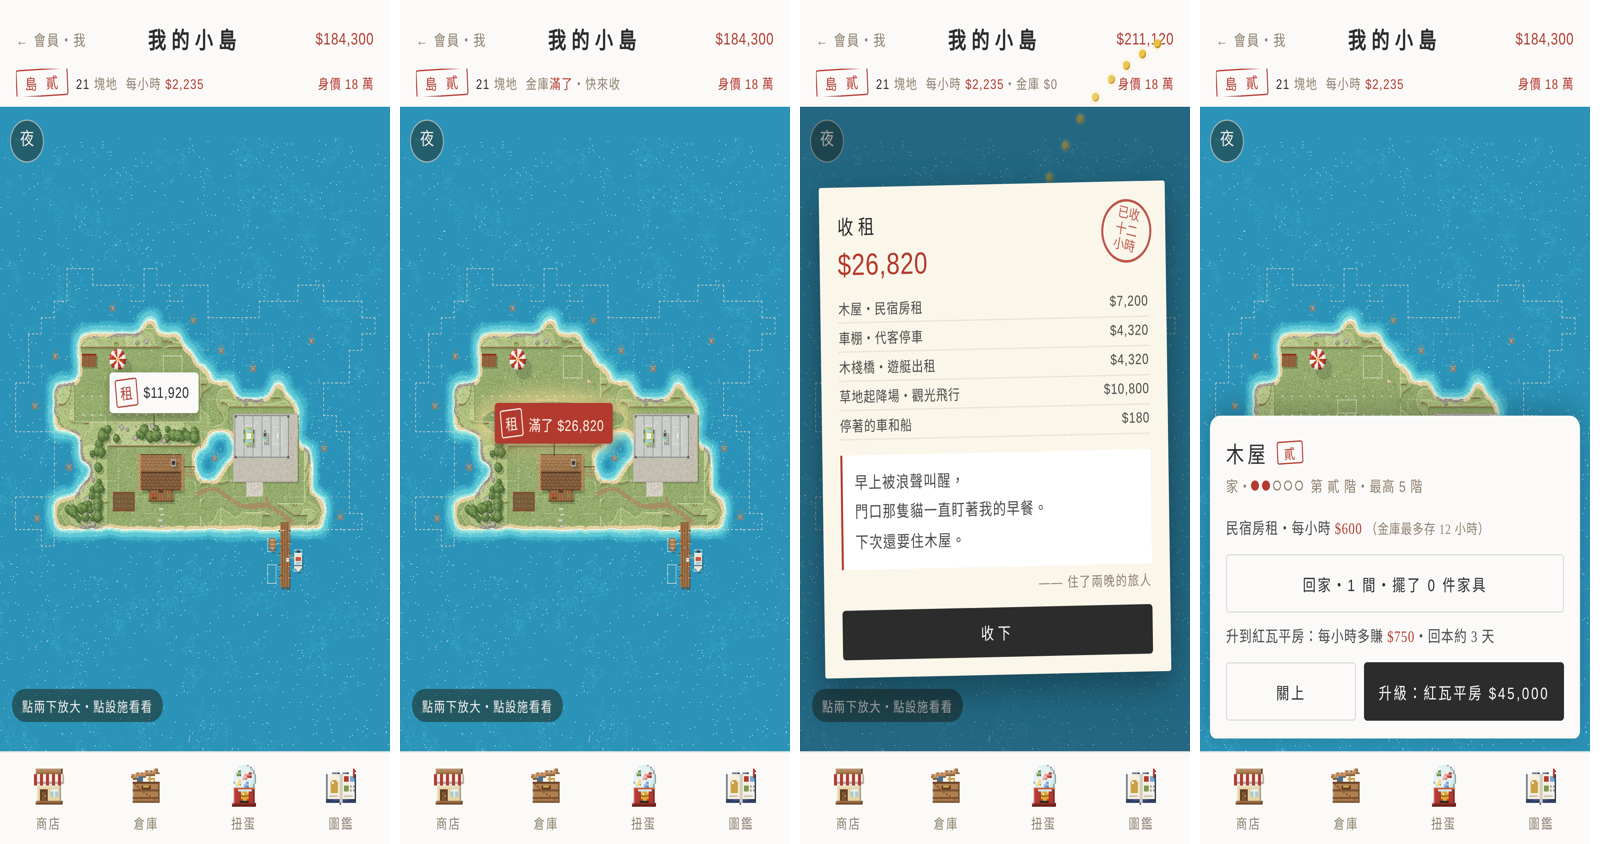
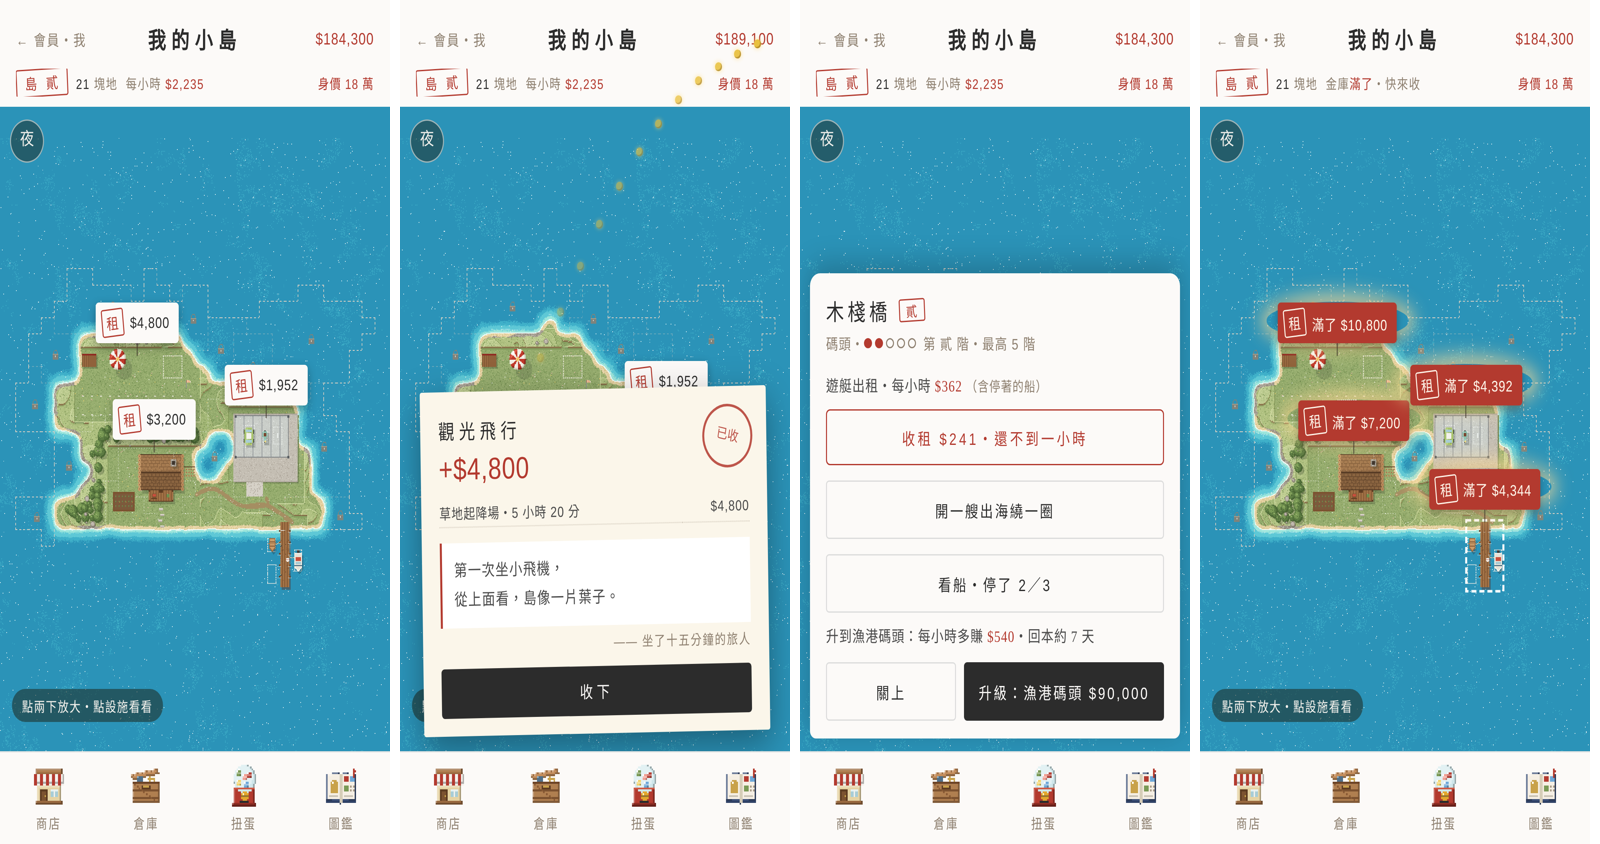
docs: rent UI per facility
Claude-Session: https://claude.ai/code/session_01DfELKGAuUeHGLNNJha5AAX

diff --git a/docs/plans/jiayuan/rent-ui.js b/docs/plans/jiayuan/rent-ui.js
@@ -17,11 +17,11 @@ const OUT = '/home/claude/work/';
     return { lv: R.FAC_KEYS.map(k => k + R.level(s, k)), plots: R.island(s).plots.length, log }; });
   console.log(JSON.stringify(info));
   await p.reload(); await p.waitForTimeout(2500);
-  await p.addStyleTag({ content: `
+  const CSS = `
     #trial { display: none !important; }
     .rtag { position: absolute; transform: translate(-50%, -100%); display: flex; flex-direction: column; align-items: center; pointer-events: none; animation: rb 2.2s ease-in-out infinite; z-index: 5; }
     .rtag .str { width: 1px; height: 10px; background: rgba(60,50,40,.7); order: 2; }
-    .rtag .pp { order: 1; display: flex; align-items: center; gap: 6px; background: #fcfaf8; color: #2c2c2c; padding: 5px 9px 5px 6px; border-radius: 3px; box-shadow: 0 3px 8px rgba(0,0,0,.3); font-family: 'Noto Sans TC', sans-serif; font-size: 12px; letter-spacing: .04em; }
+    .rtag .pp { order: 1; white-space: nowrap; display: flex; align-items: center; gap: 6px; background: #fcfaf8; color: #2c2c2c; padding: 5px 9px 5px 6px; border-radius: 3px; box-shadow: 0 3px 8px rgba(0,0,0,.3); font-family: 'Noto Sans TC', sans-serif; font-size: 12px; letter-spacing: .04em; }
     .rtag .sl { width: 20px; height: 20px; border: 1.5px solid #b33a2f; color: #b33a2f; display: flex; align-items: center; justify-content: center; font-family: 'Noto Serif TC', serif; font-size: 12px; transform: rotate(-6deg); border-radius: 2px; }
     .rtag.full .pp { background: #b33a2f; color: #fff6ea; } .rtag.full .sl { border-color: #fff6ea; color: #fff6ea; }
     .rtag.full::after { content: ''; position: absolute; left: 50%; top: 14px; width: 120%; height: 70%; transform: translate(-50%, -50%); border-radius: 50%; box-shadow: 0 0 16px 6px rgba(255,220,150,.75); z-index: -1; }
@@ -42,46 +42,49 @@ const OUT = '/home/claude/work/';
     .dim { position: absolute; inset: 0; background: rgba(20,24,30,.35); z-index: 7; }
     .rline { font-size: 12.5px; color: rgb(var(--wabi-text)); margin: 8px 0 0; letter-spacing: .05em; }
     .rline b { color: rgb(var(--wabi-shu)); font-weight: 500; }
-  ` });
-  const place = async (amt, full) => p.evaluate(([amt, full]) => {
+  `; await p.addStyleTag({ content: CSS });
+  // 每個設施各一張紙牌（存到一小時以上才吊）
+  const tags = async (list) => p.evaluate(list => {
     document.querySelectorAll('.rtag').forEach(e => e.remove());
-    const R = XiaodaoRules, S = JSON.parse(localStorage.getItem('dongbuli-xiaodao-preview')).s, r = R.rect('house', R.level(S, 'house')), c = __xiaodao.cam;
-    const t = document.createElement('div'); t.className = 'rtag' + (full ? ' full' : ''); t.innerHTML = `<span class="pp"><span class="sl">租</span>${amt}</span><span class="str"></span>`;
-    t.style.left = ((r.x + r.w / 2 - c.x) * c.s) + 'px'; t.style.top = ((r.y + 6 - c.y) * c.s) + 'px'; document.getElementById('view').appendChild(t);
-    let sub = document.getElementById('rsub'); if (!sub) { sub = document.createElement('span'); sub.id = 'rsub'; sub.className = 'rsub'; document.getElementById('nextTier').replaceWith(sub); }
-    sub.innerHTML = full ? '金庫<b>滿了</b>・快來收' : '每小時 <b>$2,235</b>';
-  }, [amt, full]);
+    const R = XiaodaoRules, S = JSON.parse(localStorage.getItem('dongbuli-xiaodao-preview')).s, c = __xiaodao.cam;
+    list.forEach(([k, amt, full]) => { const r = R.rect(k, R.level(S, k)), t = document.createElement('div'); t.className = 'rtag' + (full ? ' full' : ''); t.innerHTML = `<span class="pp"><span class="sl">租</span>${amt}</span><span class="str"></span>`;
+      t.style.left = ((r.x + r.w / 2 - c.x) * c.s) + 'px'; t.style.top = ((r.y + 6 - c.y) * c.s) + 'px'; t.style.animationDelay = (-Math.random() * 2) + 's'; document.getElementById('view').appendChild(t); });
+  }, list);
+  const sub = async html => p.evaluate(html => { let e = document.getElementById('rsub'); if (!e) { e = document.createElement('span'); e.id = 'rsub'; e.className = 'rsub'; document.getElementById('nextTier').replaceWith(e); } e.innerHTML = html; }, html);
   const shot = async n => { await p.waitForTimeout(250); await p.screenshot({ path: OUT + 'rent' + n + '.png' }); };
-  // 1 累積中
-  await place('$11,920', false); await shot(1);
-  // 2 滿了
-  await place('滿了 $26,820', true); await shot(2);
-  // 3 收租：錢飛進錢包＋旅客紙條
+  // 1 存錢中：家、車棚、起降場存了 5 小時多 → 吊紙牌；碼頭 40 分鐘前才收過 → 不吊
+  await tags([['house', '$3,200'], ['garage', '$1,952'], ['airfield', '$4,800']]); await sub('每小時 <b>$2,235</b>'); await shot(1);
+  // 2 點起降場的紙牌：金幣飛進錢包＋旅客紙條（只有這一個設施的）
+  await tags([['house', '$3,200'], ['garage', '$1,952']]);
   await p.evaluate(() => {
-    document.querySelectorAll('.rtag').forEach(e => e.remove());
     const app = document.getElementById('app'), ab = app.getBoundingClientRect(), t = document.getElementById('view').getBoundingClientRect(), mb = document.getElementById('money').getBoundingClientRect();
-    const R = XiaodaoRules, S = JSON.parse(localStorage.getItem('dongbuli-xiaodao-preview')).s, r = R.rect('house', R.level(S, 'house')), c = __xiaodao.cam;
+    const R = XiaodaoRules, S = JSON.parse(localStorage.getItem('dongbuli-xiaodao-preview')).s, r = R.rect('airfield', R.level(S, 'airfield')), c = __xiaodao.cam;
     const x0 = t.left - ab.left + (r.x + r.w / 2 - c.x) * c.s, y0 = t.top - ab.top + (r.y - c.y) * c.s, x1 = mb.right - ab.left - 20, y1 = mb.top - ab.top + 8;
-    for (let i = 0; i < 14; i++) { const u = i / 13, cx = x0 + (x1 - x0) * u, cy = y0 + (y1 - y0) * u - Math.sin(u * Math.PI) * 70; const d = document.createElement('i'); d.className = 'coin'; d.style.left = cx + 'px'; d.style.top = cy + 'px'; d.style.opacity = .35 + u * .65; app.appendChild(d); }
-    const pl = document.createElement('div'); pl.className = 'plus'; pl.textContent = '+$26,820'; pl.style.left = x0 + 'px'; pl.style.top = (y0 - 4) + 'px'; pl.style.textShadow = '0 0 3px #fff, 0 0 6px #fff'; /* 被紙條蓋住，不放 */ void pl; document.getElementById('rsub').innerHTML = '每小時 <b>$2,235</b>・金庫 $0';
-    document.getElementById('money').textContent = '$211,120';
-    const dim = document.createElement('div'); dim.className = 'dim'; document.getElementById('view').appendChild(dim);
-    const n = document.createElement('div'); n.className = 'rnote'; n.innerHTML = `<span class="stamp">已收<br>十二<br>小時</span><h3>收租</h3><div class="amt">$26,820</div>
-      <table><tr><td>木屋・民宿房租</td><td>$7,200</td></tr><tr><td>車棚・代客停車</td><td>$4,320</td></tr><tr><td>木棧橋・遊艇出租</td><td>$4,320</td></tr><tr><td>草地起降場・觀光飛行</td><td>$10,800</td></tr><tr><td>停著的車和船</td><td>$180</td></tr></table>
-      <div class="msg">早上被浪聲叫醒，<br>門口那隻貓一直盯著我的早餐。<br>下次還要住木屋。</div><div class="who">—— 住了兩晚的旅人</div><div class="ok">收下</div>`;
+    for (let i = 0; i < 12; i++) { const u = i / 11, cx = x0 + (x1 - x0) * u, cy = y0 + (y1 - y0) * u - Math.sin(u * Math.PI) * 50; const d = document.createElement('i'); d.className = 'coin'; d.style.left = cx + 'px'; d.style.top = cy + 'px'; d.style.opacity = .35 + u * .65; app.appendChild(d); }
+    document.getElementById('money').textContent = '$189,100';
+    const n = document.createElement('div'); n.className = 'rnote'; n.style.top = 'auto'; n.style.bottom = '14px'; n.style.transform = 'rotate(-1deg)';
+    n.innerHTML = `<span class="stamp">已收</span><h3>觀光飛行</h3><div class="amt">+$4,800</div>
+      <table><tr><td>草地起降場・5 小時 20 分</td><td>$4,800</td></tr></table>
+      <div class="msg">第一次坐小飛機，<br>從上面看，島像一片葉子。</div><div class="who">—— 坐了十五分鐘的旅人</div><div class="ok">收下</div>`;
     document.getElementById('view').appendChild(n);
   });
-  await shot(3);
-  // 4 設施卡片：租金、升級多賺、回本
+  await shot(2);
+  // 3 碼頭不到一小時：沒有紙牌，點開卡片才收得到
   await p.reload(); await p.waitForTimeout(2200);
-  await p.addStyleTag({ content: '#trial{display:none!important} .rline{font-size:12.5px;margin:8px 0 0;letter-spacing:.05em} .rline b{color:rgb(var(--wabi-shu));font-weight:500} .rline small{color:rgb(var(--wabi-accent));font-size:11px}' });
-  await p.evaluate(() => { const R = XiaodaoRules, S = JSON.parse(localStorage.getItem('dongbuli-xiaodao-preview')).s, r = R.rect('house', R.level(S, 'house')); __xiaodao.tap(r.x + r.w / 2, r.y + r.h / 2); });
+  await p.addStyleTag({ content: '#trial{display:none!important} .rline{font-size:12.5px;margin:8px 0 0;letter-spacing:.05em} .rline b{color:rgb(var(--wabi-shu));font-weight:500} .rline small{color:rgb(var(--wabi-accent));font-size:11px} .rbtn{display:block;width:100%;margin-top:10px;min-height:44px;border:1px solid rgb(var(--wabi-shu));color:rgb(var(--wabi-shu));background:transparent;border-radius:4px;font-family:"Noto Sans TC",sans-serif;font-size:13px;letter-spacing:.2em}' });
+  await p.evaluate(() => { const R = XiaodaoRules, S = JSON.parse(localStorage.getItem('dongbuli-xiaodao-preview')).s, r = R.rect('dock', R.level(S, 'dock')); __xiaodao.tap(r.x + r.w / 2, r.y + r.h / 2); });
   await p.waitForTimeout(700);
   await p.evaluate(() => { const card = document.getElementById('card'), line = card.querySelector('.line');
-    const a = document.createElement('p'); a.className = 'rline'; a.innerHTML = '民宿房租・每小時 <b>$600</b> <small>（金庫最多存 12 小時）</small>'; line.after(a);
-    const b = document.createElement('p'); b.className = 'rline'; b.innerHTML = '升到紅瓦平房：每小時多賺 <b>$750</b>・回本約 3 天'; const btns = card.querySelector('.btns'); btns.before(b);
-    const sub = document.getElementById('nextTier'); sub.innerHTML = '每小時 <b style="color:rgb(var(--wabi-shu));font-weight:500">$2,235</b>'; });
-  await shot(4);
+    const a = document.createElement('p'); a.className = 'rline'; a.innerHTML = '遊艇出租・每小時 <b>$362</b> <small>（含停著的船）</small>'; line.after(a);
+    const b = document.createElement('button'); b.className = 'rbtn'; b.textContent = '收租 $241・還不到一小時'; a.after(b);
+    const u = document.createElement('p'); u.className = 'rline'; u.innerHTML = '升到漁港碼頭：每小時多賺 <b>$540</b>・回本約 7 天'; card.querySelector('.btns').before(u);
+    document.getElementById('nextTier').innerHTML = '每小時 <b style="color:rgb(var(--wabi-shu));font-weight:500">$2,235</b>'; });
+  await shot(3);
+  // 4 放著不管 12 小時：每一張都滿了
+  await p.evaluate(() => document.getElementById('card').classList.remove('on')); await p.waitForTimeout(400);
+  await p.addStyleTag({ content: CSS });
+  await tags([['house', '滿了 $7,200', 1], ['garage', '滿了 $4,392', 1], ['dock', '滿了 $4,344', 1], ['airfield', '滿了 $10,800', 1]]);
+  await sub('金庫<b>滿了</b>・快來收'); await shot(4);
   console.log(errs);
   await b.close();
 })();

diff --git a/docs/plans/jiayuan/rent.md b/docs/plans/jiayuan/rent.md
@@ -10,11 +10,11 @@
 
 ## 玩法
 - 蓋好的設施自己有客人：家＝民宿房租、車庫＝代客停車、碼頭＝遊艇出租、停機坪＝觀光飛行、發射台＝太空旅遊。錢存進金庫。
-- 家的上面浮一個小錢袋寫金額，點了收租、錢飛進錢包，跳一張旅客留言的紙條；滿了錢袋寫「滿了」。
+- 每個設施上面各吊一張紙牌（存一小時以上才出現），點了收那個設施的租、錢飛進錢包、跳一張旅客留言的紙條；滿了紙牌變紅寫「滿了」。不到一小時從設施卡片收。
 - 停在位子上的車船飛機，每小時多賺牠買價的萬分之 0.5；停在倉庫的、送的（火箭、熱氣球、飛艇）不算。
 - 島上開出去的車船飛機頭上冒「+$」只是好看，錢照每小時算。
 - 升級卡片多寫「每小時多賺 $X・回本約 N 天」。
-- 後端：每個人記上次結算時間和還沒收的錢；蓋東西、停車、收租之前先把到現在的租金照舊的設施結算進金庫（上限 12 小時份），再改設施。
+- 後端：每個人、每個設施記上次結算時間和還沒收的錢；蓋東西、停車、收租之前先把到現在的租金照舊的設施結算進金庫（上限 12 小時份），再改設施。
 
 ## 租金（2026-11-22 定：第一版的 3 倍；中間試過 10 倍，使用者看了改成 3 倍）
 每小時（括號是存滿 12 小時）：
@@ -38,11 +38,13 @@
 - 全部蓋滿（車船飛機約 7,600 萬）：$46,338／$556,056／$1,112,112
 
 ## 畫面（樣張 `rent-ui.png`，2026-11-24）
-用島貳的例子（木屋、車棚、木棧橋、草地起降場，每小時 $2,235）在真的小島上蓋一層假的畫面：
-1. **存錢中**：家的屋頂上吊一張紙牌，朱色「租」印＋金庫金額（輕輕晃）；上面那一行寫「每小時 $2,235」。
-2. **滿了**：紙牌變朱色、寫「滿了 $26,820」，外面一圈亮；上面那一行寫「金庫滿了・快來收」。
-3. **點紙牌收租**：金幣從家飛進右上的錢包；跳一張紙條：收了多少、每個設施各賺多少、停著的車船飛機，下面一段旅客留言（之後的明信片也放這裡），蓋「已收十二小時」的章，按「收下」。
-4. **設施卡片**：多一行「民宿房租・每小時 $600（金庫最多存 12 小時）」，升級按鈕上面寫「升到紅瓦平房：每小時多賺 $750・回本約 3 天」。
+使用者 2026-11-24 定的：**每個設施分開收**；**存到一小時以上才吊紙牌**，不到一小時要點開設施卡片才收得到。每個設施各自的金庫，各自最多存 12 小時。停著的車船飛機算在自己停的那個設施（車算車庫、船算碼頭、飛機算停機坪）。
+
+用島貳的例子（木屋 $600、車棚 $366、木棧橋 $362、草地起降場 $900，每小時合計 $2,235）在真的小島上蓋一層假的畫面：
+1. **存錢中**：存滿一小時的設施屋頂上吊一張紙牌，朱色「租」印＋金額（輕輕晃）；碼頭 40 分鐘前才收過，沒有紙牌。上面那一行寫「每小時 $2,235」。
+2. **點一張紙牌**：只收那個設施的錢，金幣從那裡飛進右上的錢包；跳一張紙條：哪個設施、存了多久、多少錢、一段旅客留言（之後的明信片也放這裡），按「收下」。
+3. **不到一小時的設施**：點設施打開卡片，多一行「遊艇出租・每小時 $362（含停著的船）」和「收租 $241・還不到一小時」的按鈕；升級按鈕上面寫「每小時多賺 $540・回本約 7 天」。
+4. **放著 12 小時**：每一張紙牌都變朱色、寫「滿了」，外面一圈亮；上面那一行寫「金庫滿了・快來收」。
 
 ## 還沒定
 - 小事件（週末旺季、包場旅客）之後再說。

diff --git a/changelog/2026-11.md b/changelog/2026-11.md
@@ -1188,3 +1188,8 @@
 ## 2026-11-24 12:00（台灣）　小島收租：畫面樣張
 - 畫了收租的樣張（`docs/plans/jiayuan/rent-ui.png`）：家上面吊一張「租」的紙牌、滿了變紅、點了金幣飛進錢包＋旅客留言紙條、設施卡片寫每小時多少和回本幾天。
 - 只是樣張，網站沒有變。
+
+## 2026-11-24 12:20（台灣）　小島收租：改成每個設施分開收
+- 樣張改了：每個設施各自存、各自收。存到一小時以上，那個設施上面才吊一張「租」的紙牌，點了只收那一個。
+- 還不到一小時的，點開設施卡片有「收租」按鈕可以先收。
+- 只是樣張，網站沒有變。
